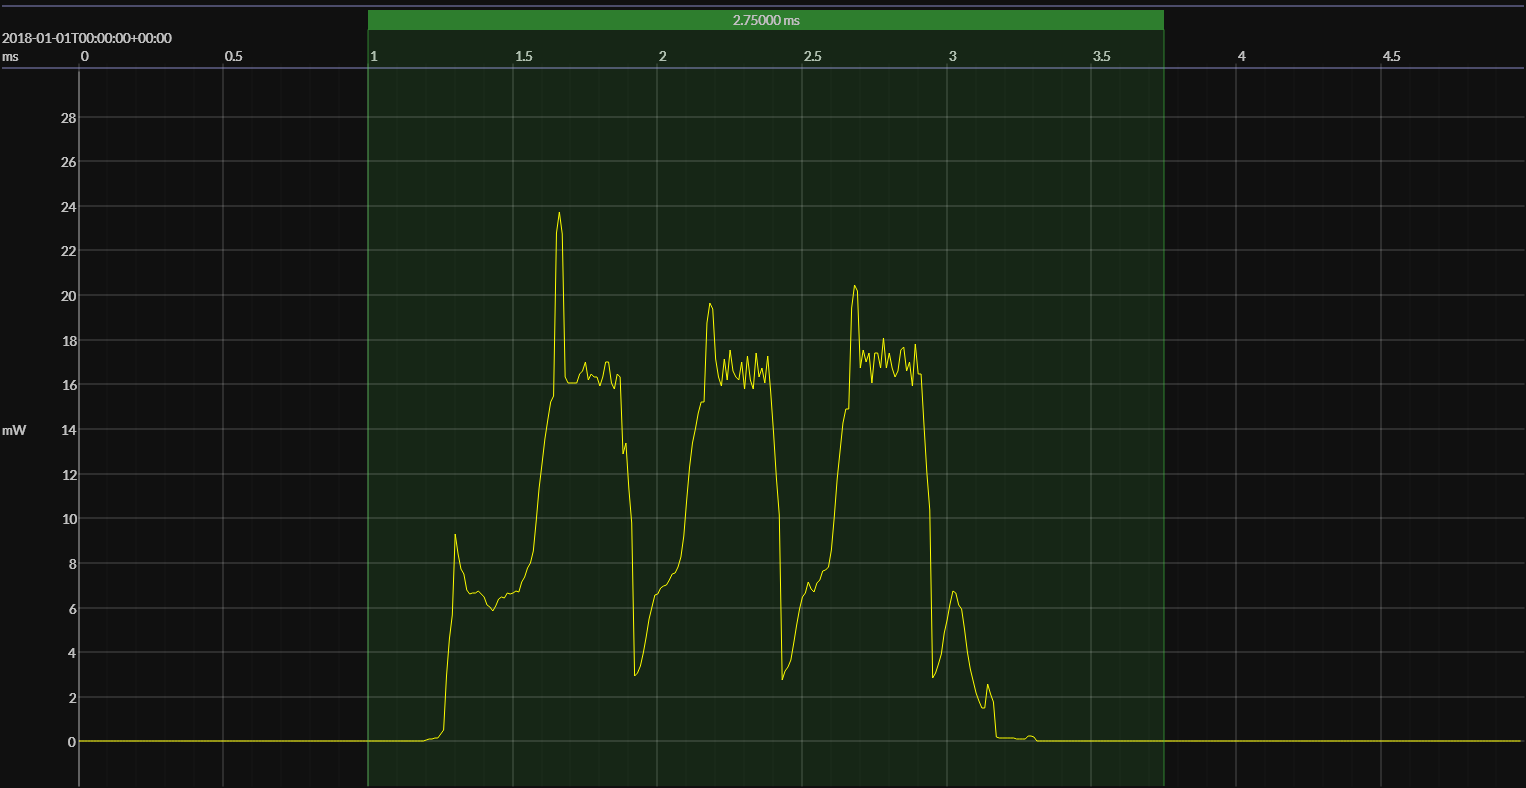
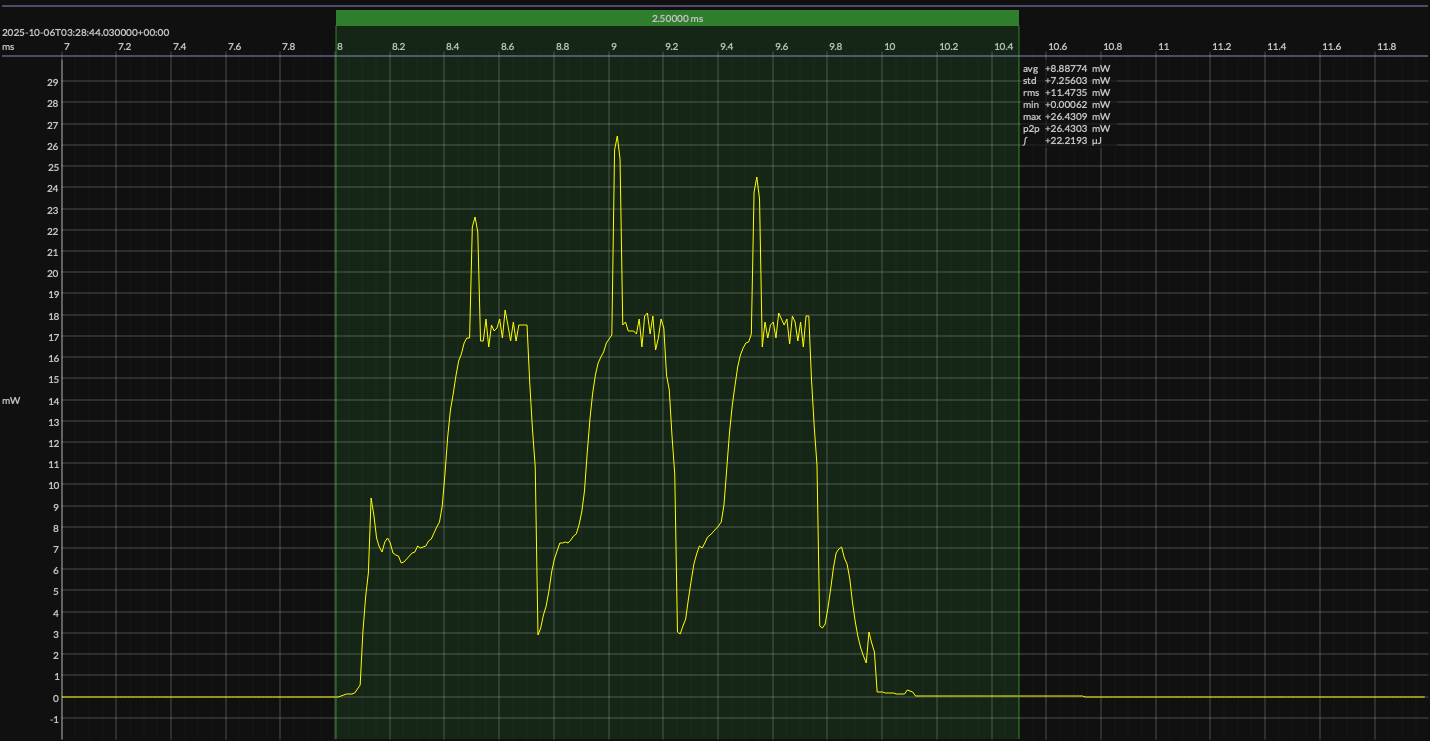
ppk2/ti-23-lp/emscript: update capture

Changed region(s): [[0.0, 0.0, 1.0, 0.9933], [0.4615, 0.9622, 0.5846, 0.9933], [0.3077, 0.9622, 0.4308, 0.9933]]

diff --git a/captures/ppk2/ti-23-lp/emscript/ABOUT.md b/captures/ppk2/ti-23-lp/emscript/ABOUT.md
@@ -12,22 +12,22 @@
 
 | supply voltage | &emsp;current (avg)&emsp; | &emsp;current (std)&emsp; | &emsp;average power&emsp;
 |:---:|:---:|:---:|:---:|
-| 3.00 V | 645.183 nA |   2.839 µA |   1.936 µW |
+| 3.30 V | 641.961 nA |   2.619 µA |   2.118 µW |
 
 ### 🟠&ensp;1&thinsp;s event period
 
 | &emsp;&emsp;event energy (avg)&emsp;&emsp; | &emsp;&emsp;energy per period&emsp;&emsp; | &emsp;&emsp;energy per day&emsp;&emsp; | &emsp;&emsp;&emsp;**EM&bull;eralds**&emsp;&emsp;&emsp;
 |:---:|:---:|:---:|:---:|
-|  21.242 µJ |  23.177 µJ |   2.003 J | 39.95 |
+|  22.063 µJ |  24.181 µJ |   2.089 J | 38.29 |
 
 ### 🟠&ensp;10&thinsp;s event period
 
 | &emsp;&emsp;event energy (avg)&emsp;&emsp; | &emsp;&emsp;energy per period&emsp;&emsp; | &emsp;&emsp;energy per day&emsp;&emsp; | &emsp;&emsp;&emsp;**EM&bull;eralds**&emsp;&emsp;&emsp;
 |:---:|:---:|:---:|:---:|
-|  21.242 µJ |  40.597 µJ | 350.759 mJ | 228.08 |
+|  22.063 µJ |  43.248 µJ | 373.659 mJ | 214.10 |
 
 <br>
-<p align="right"><sub>generated at 2025-09-05T23:51:38.157Z</sub></p>
+<p align="right"><sub>generated at 2025-10-06T03:31:54.361Z</sub></p>
     
 
 <!-- @emscope-pack:end -->
